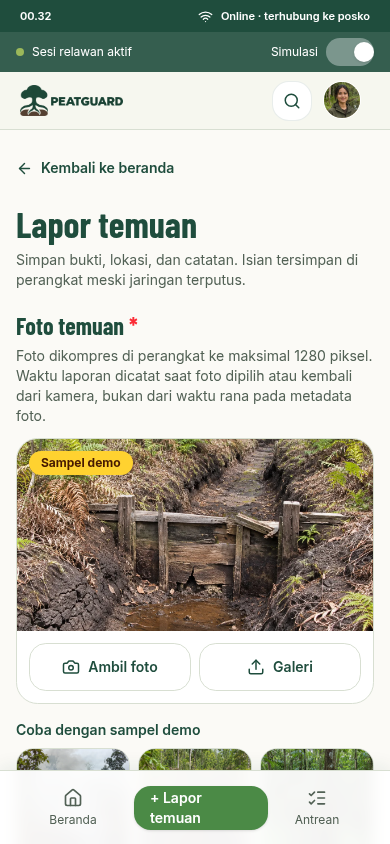
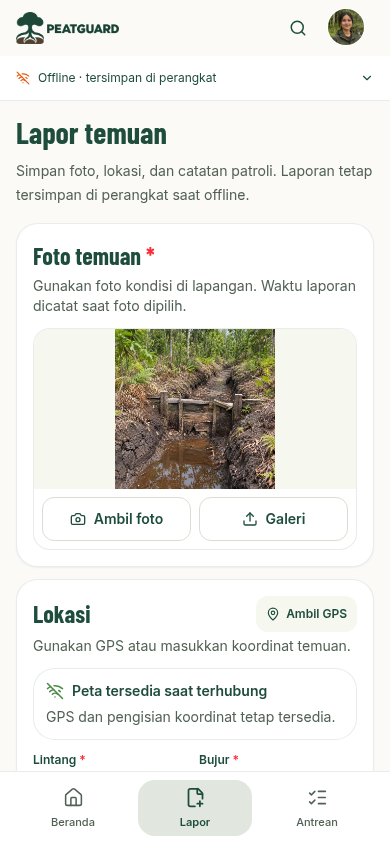
feat(public): refresh offline story captures

diff --git a/components/public/offline-report-preview.css b/components/public/offline-report-preview.css
@@ -1,53 +1,80 @@
 .offline-phone {
-  width: min(100%, clamp(248px, 32dvh, 304px));
+  width: min(100%, clamp(250px, 36dvh, 326px));
   justify-self: center;
   perspective: 1200px;
 }
 
 .offline-phone__device {
-  --phone-radius: 38px;
+  --phone-radius: 42px;
+  isolation: isolate;
   position: relative;
-  padding: 2px;
+  padding: 3px;
   border-radius: var(--phone-radius);
   background: linear-gradient(
-    125deg,
-    #a2aca5 0%,
-    #38473e 18%,
-    #7d8d81 48%,
-    #23362b 75%,
-    #a2aca5 100%
+    135deg,
+    #d2dbd3 0%,
+    #718176 4%,
+    #26382d 12%,
+    #627369 40%,
+    #15231a 70%,
+    #c3cec5 100%
   );
   box-shadow:
-    0 30px 65px rgb(0 0 0 / 34%),
-    10px 7px 20px rgb(0 0 0 / 16%),
-    inset 0 0 0 1px rgb(255 255 255 / 28%);
-  transform: rotateY(-5deg);
+    0 36px 74px rgb(0 0 0 / 42%),
+    12px 9px 26px rgb(0 0 0 / 18%),
+    inset 0 1px 0 rgb(255 255 255 / 56%),
+    inset 0 0 0 1px rgb(255 255 255 / 24%);
+  transform: rotateY(-7deg) rotateX(1deg);
 }
 .offline-phone__device::before {
   content: "";
   position: absolute;
-  z-index: 2;
-  top: 52px;
-  bottom: 52px;
-  left: 1px;
-  width: 1px;
-  background: linear-gradient(transparent, rgb(255 255 255 / 55%), transparent);
+  z-index: 3;
+  top: 48px;
+  bottom: 48px;
+  left: 2px;
+  width: 2px;
+  border-radius: 2px;
+  background: linear-gradient(
+    transparent,
+    rgb(255 255 255 / 74%) 28%,
+    rgb(255 255 255 / 38%) 72%,
+    transparent
+  );
+  box-shadow: 1px 0 0 rgb(0 0 0 / 35%);
+  pointer-events: none;
+}
+.offline-phone__device::after {
+  content: "";
+  position: absolute;
+  z-index: 0;
+  inset: 2px;
+  border-radius: inherit;
+  box-shadow:
+    inset 0 1px 0 rgb(255 255 255 / 34%),
+    inset 0 -1px 0 rgb(0 0 0 / 48%);
   pointer-events: none;
 }
 .offline-phone__frame {
   position: relative;
-  padding: 17px 6px 10px;
-  border: 1px solid #142219;
-  border-radius: calc(var(--phone-radius) - 2px);
-  background: #101c16;
+  z-index: 1;
+  padding: 17px 7px 11px;
+  border: 1px solid #101a14;
+  border-radius: calc(var(--phone-radius) - 3px);
+  background: linear-gradient(145deg, #17251c, #08120c 72%);
+  box-shadow:
+    inset 0 1px 0 rgb(255 255 255 / 14%),
+    inset 0 -2px 5px rgb(0 0 0 / 72%);
 }
 .offline-phone__screen {
   position: relative;
   aspect-ratio: 390 / 844;
   overflow: hidden;
-  border-radius: 26px;
+  border-radius: 27px;
   background: var(--peat-paper);
-  box-shadow: 0 0 0 1px rgb(0 0 0 / 65%);
+  box-shadow:
+    0 0 0 1px rgb(0 0 0 / 72%),
+    inset 0 0 0 1px rgb(255 255 255 / 18%);
 }
 .offline-phone__state {
   position: absolute;
@@ -58,78 +85,95 @@
 }
 .offline-phone__speaker {
   position: absolute;
-  top: 7px;
-  left: calc(50% - 24px);
-  width: 40px;
-  height: 3px;
+  z-index: 2;
+  top: 6px;
+  left: calc(50% - 27px);
+  width: 44px;
+  height: 5px;
+  border: 1px solid rgb(255 255 255 / 8%);
   border-radius: 10px;
-  background: #030906;
-  box-shadow: 0 1px 0 rgb(255 255 255 / 9%);
+  background: linear-gradient(180deg, #020805, #0a130e);
+  box-shadow:
+    inset 0 1px 1px rgb(0 0 0 / 95%),
+    0 1px 0 rgb(255 255 255 / 8%);
 }
 .offline-phone__lens {
   position: absolute;
+  z-index: 2;
   top: 6px;
-  left: calc(50% + 22px);
-  width: 5px;
-  height: 5px;
-  border: 1px solid #293b32;
+  left: calc(50% + 24px);
+  width: 6px;
+  height: 6px;
+  border: 1px solid #52675a;
   border-radius: 50%;
-  background: radial-gradient(circle at 40% 40%, #40675f, #020a06 65%);
+  background: radial-gradient(
+    circle at 38% 38%,
+    #78a193,
+    #10241c 42%,
+    #020806 72%
+  );
+  box-shadow: 0 0 0 1px rgb(0 0 0 / 50%);
 }
 .offline-phone__home-indicator {
   position: absolute;
+  z-index: 2;
   bottom: 4px;
   left: 39%;
   width: 22%;
   height: 2px;
   border-radius: 10px;
-  background: #78857c;
+  background: linear-gradient(90deg, #59665c, #c4cdc5 50%, #59665c);
+  box-shadow: 0 1px 0 rgb(0 0 0 / 62%);
 }
 .offline-phone__key {
   position: absolute;
-  width: 3px;
-  border-radius: 2px;
-  background: linear-gradient(90deg, #a0aca3, #263a2d);
+  z-index: 2;
+  width: 4px;
+  border: 1px solid rgb(255 255 255 / 16%);
+  border-radius: 3px;
+  background: linear-gradient(90deg, #d2dbd3, #526257 32%, #233329);
+  box-shadow: 0 2px 3px rgb(0 0 0 / 40%);
 }
 .offline-phone__key--mute {
   top: 70px;
-  left: -2px;
+  left: -3px;
   height: 22px;
 }
 .offline-phone__key--volume {
   top: 112px;
-  left: -2px;
+  left: -3px;
   height: 50px;
 }
 .offline-phone__key--power {
   top: 122px;
-  right: -2px;
+  right: -3px;
   height: 58px;
 }
 
 @media (max-width: 767px) {
   .offline-phone {
-    width: min(34vw, 15dvh, 148px);
+    width: min(38vw, 17dvh, 150px);
   }
   .offline-phone__device {
-    --phone-radius: 22px;
-    padding: 1px;
+    --phone-radius: 26px;
+    padding: 2px;
+    transform: rotateY(-4deg) rotateX(0.5deg);
   }
   .offline-phone__frame {
-    padding: 10px 3px 6px;
+    padding: 10px 4px 7px;
   }
   .offline-phone__screen {
-    border-radius: 16px;
+    border-radius: 18px;
   }
   .offline-phone__speaker {
     top: 4px;
-    left: calc(50% - 14px);
-    width: 24px;
-    height: 2px;
+    left: calc(50% - 15px);
+    width: 25px;
+    height: 3px;
   }
   .offline-phone__lens {
-    top: 3px;
-    left: calc(50% + 14px);
+    top: 4px;
+    left: calc(50% + 13px);
     width: 4px;
     height: 4px;
   }
@@ -138,15 +182,18 @@
     height: 1px;
   }
   .offline-phone__key--mute {
-    top: 36px;
+    top: 40px;
+    left: -2px;
     height: 14px;
   }
   .offline-phone__key--volume {
-    top: 60px;
+    top: 64px;
+    left: -2px;
     height: 26px;
   }
   .offline-phone__key--power {
-    top: 64px;
+    top: 68px;
+    right: -2px;
     height: 30px;
   }
 }

diff --git a/public/images/field-app-screenshots.md b/public/images/field-app-screenshots.md
@@ -1,33 +1,30 @@
 # Volunteer application screenshots
 
-These are actual application captures made with Playwright on localhost using
-the seeded **Relawan Demo** account. They are not generated mock interfaces.
-The desktop landing page displays them inside a decorative phone frame.
+These are genuine screens from the local PEATGUARD application, captured with
+Playwright using the seeded **Relawan Demo** account. They are not composed or
+retouched mock interfaces. Each capture is **390 × 844 CSS pixels** and stored
+as lossless WebP. The Next.js development toolbar was hidden.
 
-| Asset                    | Application view        | State                                                                                 |
-| ------------------------ | ----------------------- | ------------------------------------------------------------------------------------- |
-| `field-app-capture.webp` | `/field/reports/create` | Kanal kering demo sample selected in the actual report form.                          |
-| `field-app-saved.webp`   | `/field/queue`          | Built-in offline simulation active; one pending draft and one previously sent report. |
-| `field-app-sent.webp`    | `/field/home`           | Offline simulation disabled; the home screen shows the previously synced demo report. |
+| Asset                    | Application view        | Captured state                                                                                              |
+| ------------------------ | ----------------------- | ----------------------------------------------------------------------------------------------------------- |
+| `field-app-capture.webp` | `/field/reports/create` | Offline indicator, synthetic canal photo selected, and the `Kanal` category.                                |
+| `field-app-saved.webp`   | `/field/queue`          | One local draft waiting to sync while offline; the current UI reports `0 terkirim` and unavailable history. |
+| `field-app-sent.webp`    | `/field/home`           | Connected home screen, scrolled to reports carrying the application's native `Sampel demo` label.           |
 
-Refreshed with the selected **Akar Kehidupan** brand at a **390 × 844 CSS pixel** viewport on 17–18 November 2026 and compressed
-to lossless WebP without cropping, retouching, or replacing application text.
-Only the Next.js development toolbar was hidden during capture. The camera,
-speaker, metal edge, side buttons, and home indicator belong to the surrounding
-CSS frame and do not cover application content.
+The form capture uses `public/samples/kanal-kering.webp`, a synthetic demo
+image, with a note identifying it as a landing-page illustration. The current
+form treats uploaded photos as regular evidence and does not add a native demo
+badge to this view. The section's exterior caption identifies the visuals as
+illustrative.
 
-The flow used the built-in canal demo sample, its supplied example coordinates,
-and a note identifying it as a demonstration for the landing page. AI analysis
-was left off. The new pending draft was removed through the application's local
-draft action after capture; the already synced report was retained. No additional
-server report was submitted to refresh the branding. The application retains its own **Sampel demo** labels; these
-screenshots do not document an operational incident. No private account data,
-customer reports, authentication tokens, or live session content are embedded
-by the landing page.
+The offline draft was created in the browser's local report store and deleted
+through the app after capture. Connectivity was restored only after deletion,
+so no report was submitted to the server. Existing seeded reports were left
+unchanged. No authentication tokens or private account data are embedded.
 
-To refresh the captures, use a local demo volunteer session, select the canal
-sample in the form, activate the built-in offline simulation before saving,
-capture the local queue, and reconnect to capture the synced home screen.
-Wait for the visible session, sample preview, and queue states to finish loading.
-Keep the native demo labels. Preserve the viewport aspect ratio and use lossless
-compression for UI text.
+To refresh the captures, run the local app, sign in with the demo volunteer,
+upload the synthetic canal image, set the sample coordinates and category, and
+enable offline simulation before saving. Capture the queue before deleting the
+draft. Reconnect and capture the home screen at the first rows labeled
+`Sampel demo`. Preserve the 390 × 844 viewport and lossless compression so UI
+text remains clear.

diff --git a/public/images/README.md b/public/images/README.md
@@ -19,13 +19,15 @@ use these assets in reports or as proof of field activity.
 
 ## Application screenshots
 
-These are captures from the running application using the local demo volunteer
-account. They retain the application's own demo labels and are displayed inside
-the phone frame without an additional illustration caption.
+These are Playwright captures from the running local application using the demo
+volunteer account. They use a synthetic canal photo and seeded demo reports; the
+home capture keeps the application's native `Sampel demo` labels visible. The
+current report form does not show a demo badge for uploaded photos. The section
+caption identifies the visuals as illustrative.
 
-- `field-app-capture.webp` — real application screenshot of the volunteer report form with a demo canal sample selected.
-- `field-app-saved.webp` — real application screenshot of the offline queue with one local draft.
-- `field-app-sent.webp` — real application screenshot of the volunteer home after that demo report synced. Capture details: [field-app-screenshots.md](field-app-screenshots.md).
+- `field-app-capture.webp` — the report form with a synthetic canal photo and the `Kanal` category.
+- `field-app-saved.webp` — the offline queue with one local draft; remote history is unavailable while offline.
+- `field-app-sent.webp` — the connected home screen scrolled to seeded reports labeled `Sampel demo`. Capture details: [field-app-screenshots.md](field-app-screenshots.md).
 
 ## Landing behavior
 
